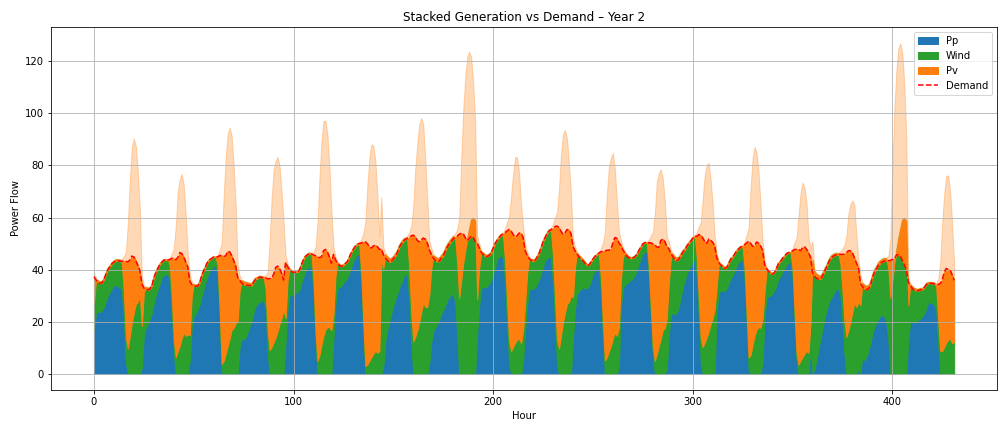
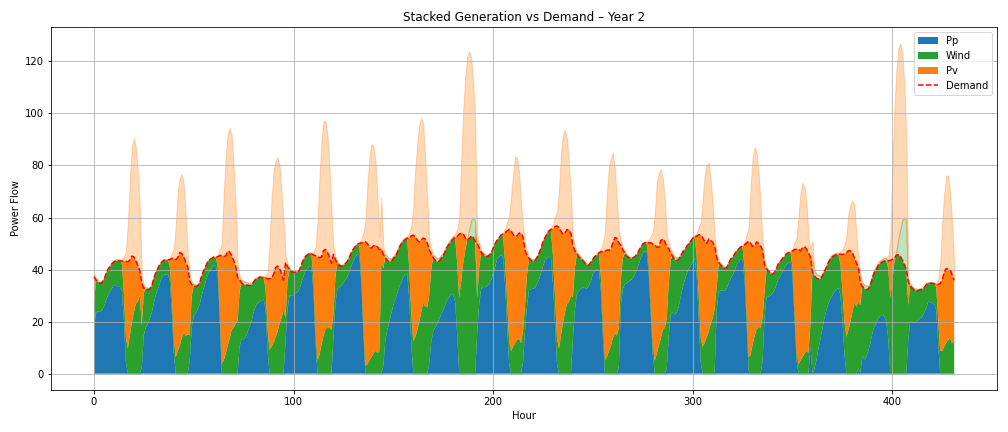
Fixed stacked plots for flows per year

diff --git a/Code/Plotting/DPhil_Plotting.py b/Code/Plotting/DPhil_Plotting.py
@@ -413,10 +413,10 @@ def plot_yearly_flows_stacked(network, output_folder):
                     break
     
     num_years = len(demand_by_year)
-    
     for year in range(num_years):
-        demand = demand_by_year[year]
+        demand = np.array(demand_by_year[year])
         x = np.arange(len(demand))
+        remaining_demand = demand.copy()
         bottom = np.zeros_like(demand)
     
         plt.figure(figsize=(14, 6))
@@ -424,32 +424,32 @@ def plot_yearly_flows_stacked(network, output_folder):
         for tech in tech_order:
             flows_list = tech_flows_by_year[tech]
             tech_total = np.zeros_like(demand)
-            
-            # Sum all flows for this tech for the given year
+    
             for flows in flows_list:
                 if year < len(flows):
-                    tech_total += flows[year]
+                    tech_total += np.array(flows[year])
     
-            top = bottom + tech_total
-            
-            # Below demand is the part where top is <= demand
-            # Above demand is the part where top > demand
-            below_fill = np.minimum(top, demand)
-            above_fill = top - np.maximum(demand, bottom)
+            # Split into used (up to remaining demand) and excess (above demand)
+            used = np.minimum(tech_total, remaining_demand)
+            excess = tech_total - used
     
-            # Fill below demand solid (between bottom and below_fill)
-            plt.fill_between(x, bottom, below_fill,
+            # Plot used part: solid fill
+            plt.fill_between(x, bottom, bottom + used,
                              color=tech_colors[tech],
                              label=tech.capitalize(),
-                             alpha=1.0)
+                             alpha=1.0,
+                             edgecolor='none')
     
-            # Fill above demand semi-transparent (between max(bottom, demand) and top)
-            plt.fill_between(x, np.maximum(bottom, demand), top,
-                             where=(top > demand),
+            # Plot excess part: transparent fill stacked on top
+            plt.fill_between(x, bottom + used, bottom + used + excess,
                              color=tech_colors[tech],
-                             alpha=0.3)
+                             alpha=0.3,
+                             edgecolor=tech_colors[tech])
     
-            bottom = top
+            # Update bottom and remaining demand
+            bottom += tech_total
+            remaining_demand -= used
+            remaining_demand = np.clip(remaining_demand, 0, None)
     
         # Demand line
         plt.plot(x, demand, color=demand_color, label="Demand",
@@ -463,6 +463,7 @@ def plot_yearly_flows_stacked(network, output_folder):
         plt.tight_layout()
         plt.savefig(os.path.join(output_folder, f"stacked_year_{year + 1}.png"))
         plt.close()
+
     
     print(f"[✓] Stacked plots saved to: {output_folder}")
     
